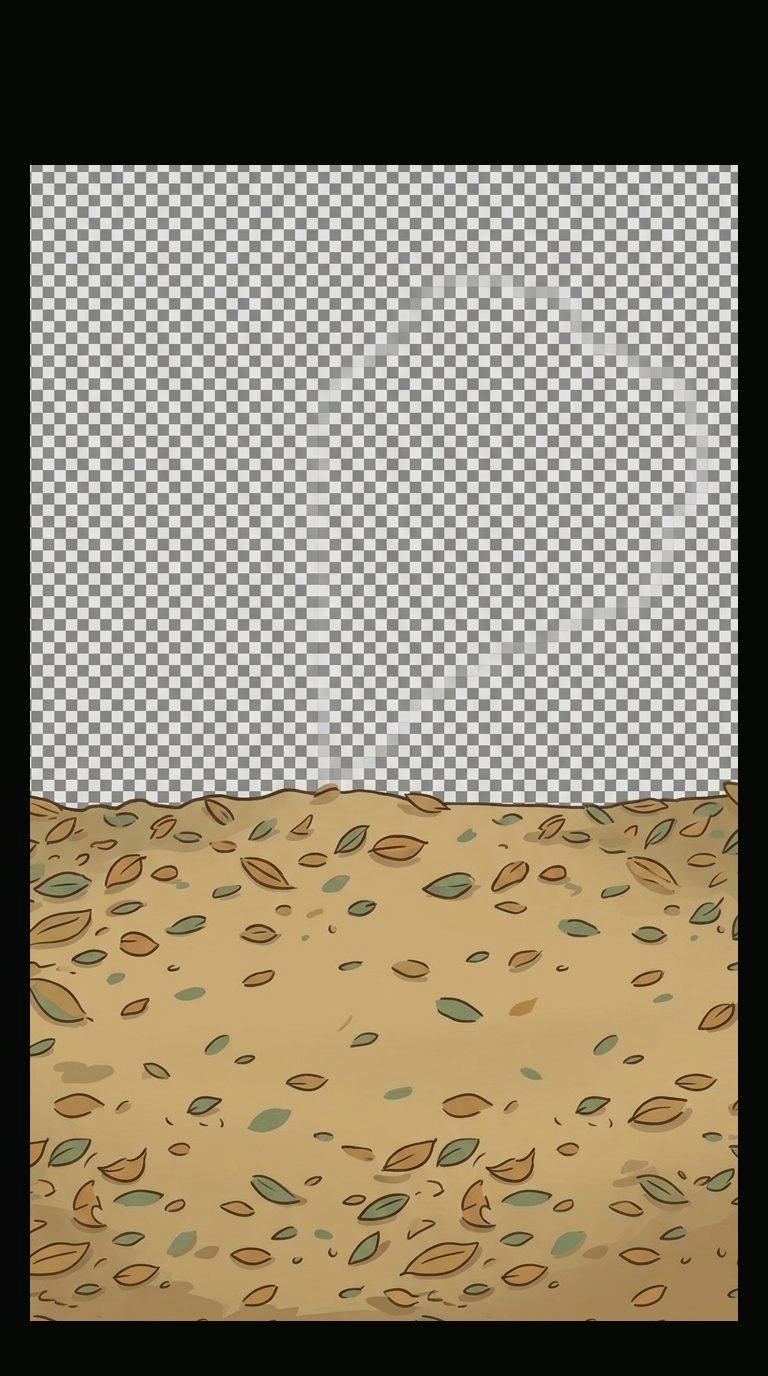
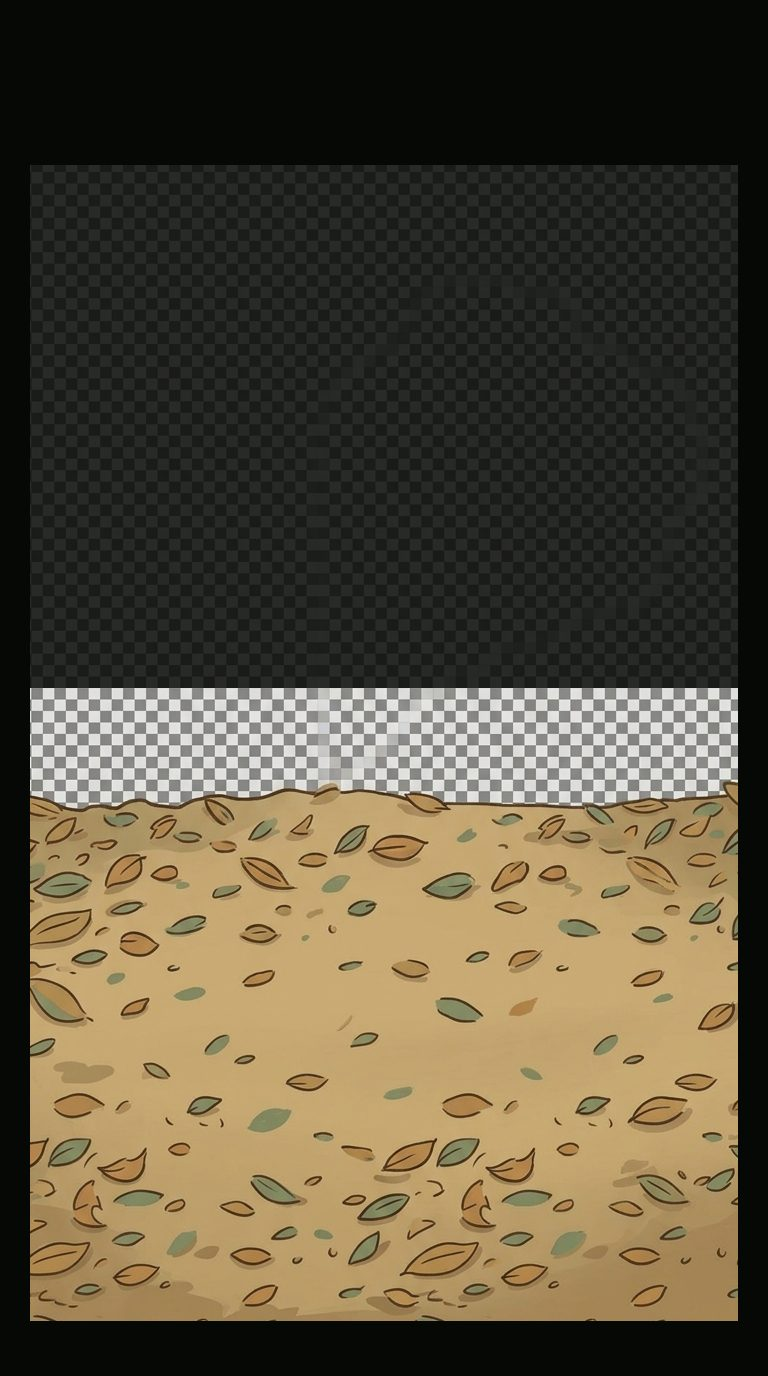
fix(sensory): SoundPool.play loop 参数类型；包内移除未引用的不合格素材 webp
- loop 是 Int 参数，0f → 0
- leaf_path/tree_outline/traveler/style_ref 未通过验收且 forest.json
  未引用，从包中移除（磁盘与 design 留档保留，交付方仍可迭代）

diff --git a/app/src/main/java/com/sensewalk/app/engine/sensory/AndroidSensoryBackend.kt b/app/src/main/java/com/sensewalk/app/engine/sensory/AndroidSensoryBackend.kt
@@ -97,7 +97,7 @@ class AndroidSensoryBackend(
         val ids = stepSounds[layerId] ?: return // 占位层：无声（ASSETS.md 记录）
         if (ids.isEmpty()) return
         val id = ids[variant.mod(ids.size)]
-        soundPool.play(id, volume, volume, 1, 0f, pitchFactor.coerceIn(0.5f, 2f))
+        soundPool.play(id, volume, volume, 1, 0, pitchFactor.coerceIn(0.5f, 2f))
     }
 
     override fun pauseAll() {
